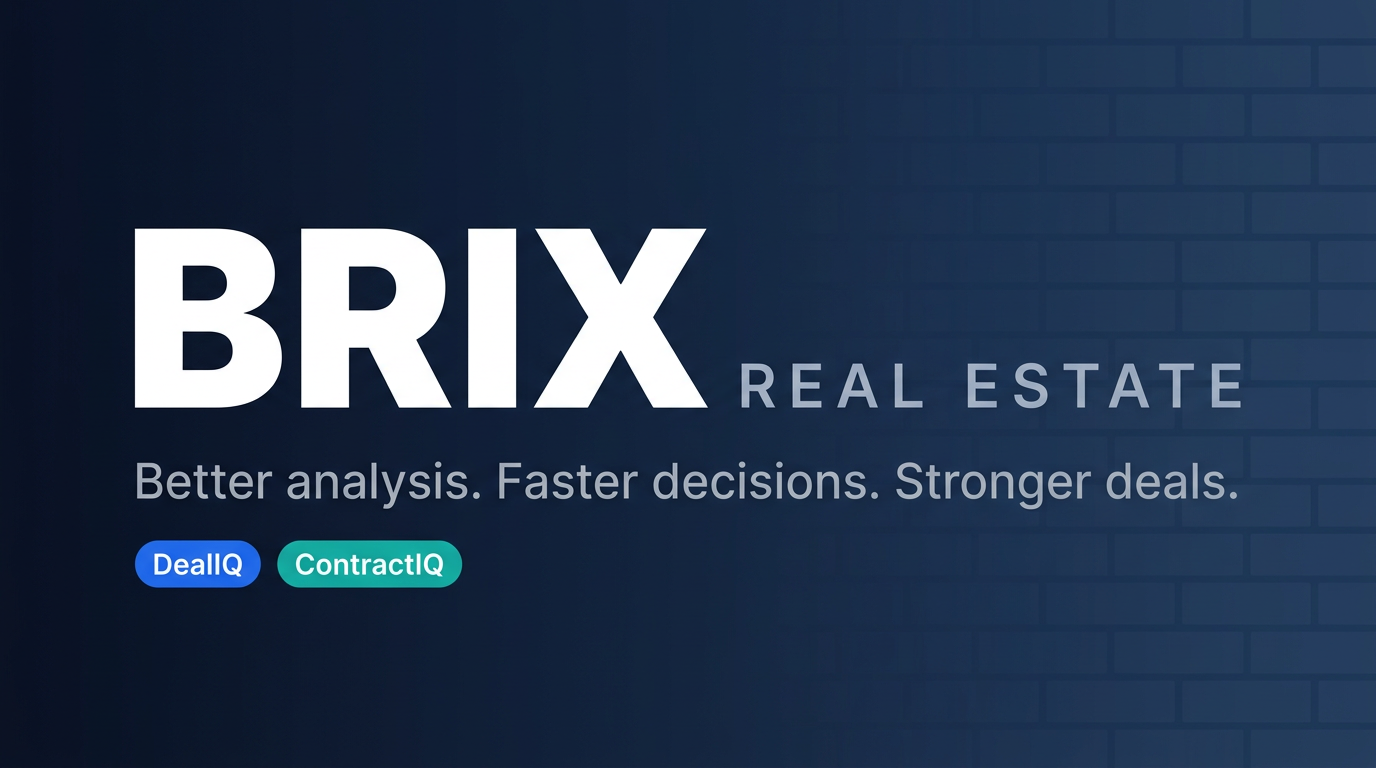
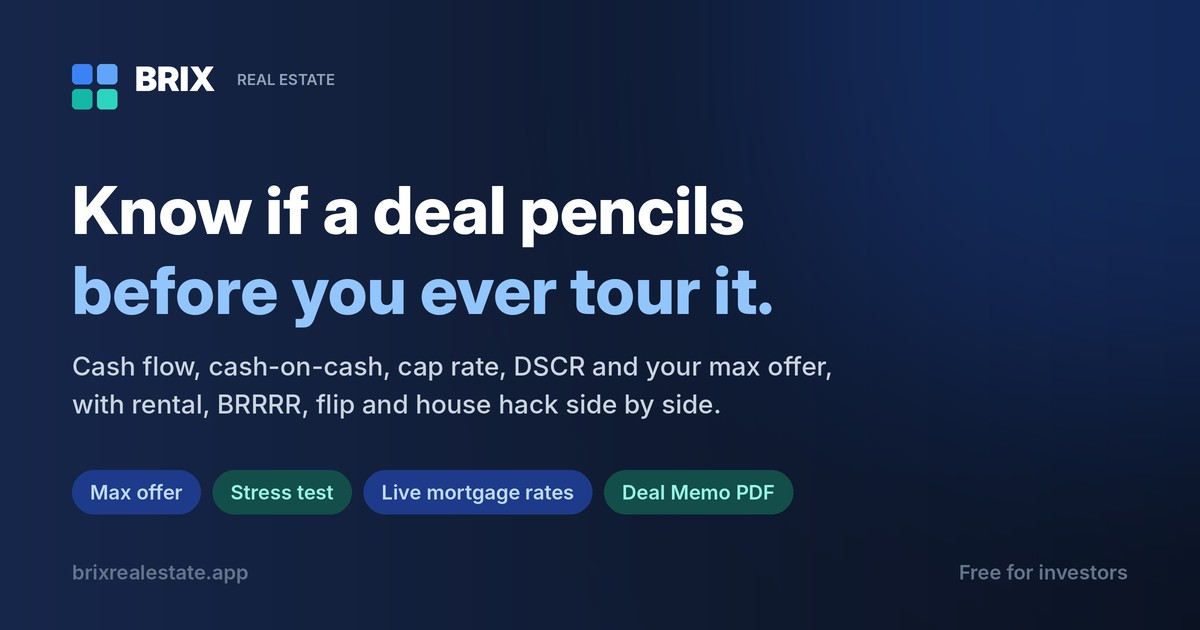
Refresh share preview, page title and SEO copy to match the new landing page
Claude-Session: https://claude.ai/code/session_019ggZhj3jfdqhfegprewwQH

diff --git a/index.html b/index.html
@@ -4,8 +4,8 @@
     <meta charset="UTF-8" />
     <meta name="viewport" content="width=device-width, initial-scale=1.0" />
 
-    <title>BRIX Real Estate | Acquisition Intelligence OS</title>
-    <meta name="description" content="BRIX is a real estate acquisition intelligence operating system for finding, analyzing, verifying, comparing, and executing investment decisions." />
+    <title>BRIX Real Estate | Know if a deal pencils before you tour it</title>
+    <meta name="description" content="Free deal analyzer for real estate investors: true cash flow, cash-on-cash, cap rate, DSCR and your max offer, with rental, BRRRR, flip and house hack compared at today&#39;s rates." />
     <meta name="author" content="InLight AI" />
     <link rel="canonical" href="https://brixrealestate.app/" />
 
@@ -15,22 +15,23 @@
 
     <meta property="og:type" content="website" />
     <meta property="og:url" content="https://brixrealestate.app/" />
-    <meta property="og:title" content="BRIX Real Estate | Acquisition Intelligence OS" />
-    <meta property="og:description" content="FindIQ, DealIQ, PipelineIQ, OfferIQ, PortfolioIQ, and ContractIQ help investors move from fragmented property data to verified decisions." />
+    <meta property="og:title" content="BRIX Real Estate | Know if a deal pencils before you tour it" />
+    <meta property="og:description" content="Enter price and rent. BRIX shows true cash flow, cash-on-cash, cap rate, DSCR and your max offer, then stress-tests the deal at live mortgage rates." />
     <meta property="og:image" content="https://brixrealestate.app/og-image.jpg" />
     <meta property="og:image:width" content="1200" />
     <meta property="og:image:height" content="630" />
+    <meta property="og:image:alt" content="BRIX Real Estate: Know if a deal pencils before you ever tour it." />
     <meta property="og:site_name" content="BRIX" />
     <meta property="og:locale" content="en_US" />
 
     <meta name="twitter:card" content="summary_large_image" />
-    <meta name="twitter:title" content="BRIX Real Estate | Acquisition Intelligence OS" />
-    <meta name="twitter:description" content="Acquisition intelligence for real estate investors: discovery, underwriting, verification, execution, and portfolio visibility." />
+    <meta name="twitter:title" content="BRIX Real Estate | Know if a deal pencils before you tour it" />
+    <meta name="twitter:description" content="True cash flow, max offer, BRRRR, flip and house hack analysis for real estate investors, at today&#39;s mortgage rates." />
     <meta name="twitter:image" content="https://brixrealestate.app/og-image.jpg" />
 
     <meta name="robots" content="index, follow" />
     <meta name="theme-color" content="#0B1220" />
-    <meta name="keywords" content="real estate acquisition intelligence, investment property analysis, rental property underwriting, BRRRR analysis, deal comparison, property due diligence" />
+    <meta name="keywords" content="rental property calculator, real estate deal analyzer, BRRRR calculator, cash on cash return, DSCR calculator, max offer calculator, house hack calculator, fix and flip calculator" />
     <meta http-equiv="Cache-Control" content="no-store, max-age=0" />
 
     <script>
@@ -63,7 +64,8 @@
       "@type": "SoftwareApplication",
       "name": "BRIX Real Estate",
       "applicationCategory": "FinanceApplication",
-      "description": "BRIX is a real estate acquisition intelligence operating system for discovery, underwriting, verification, execution, and portfolio visibility.",
+      "description": "Free deal analyzer for real estate investors: cash flow, cash-on-cash, cap rate, DSCR, max offer, BRRRR, flip and house hack analysis at current mortgage rates.",
+      "offers": { "@type": "Offer", "price": "0", "priceCurrency": "USD" },
       "url": "https://brixrealestate.app/",
       "operatingSystem": "Web",
       "creator": {
